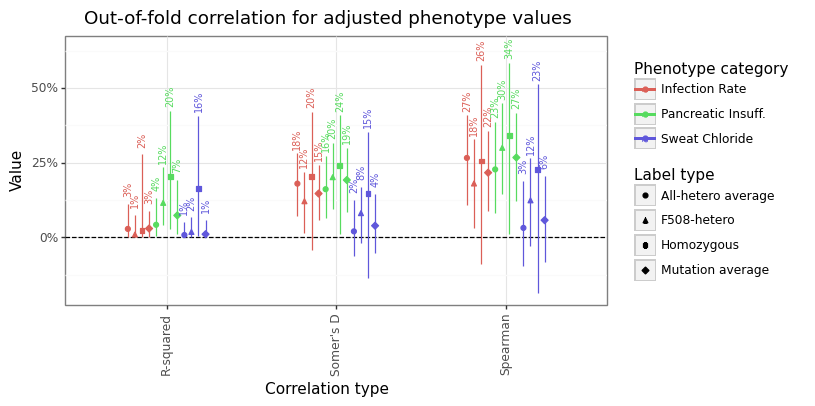
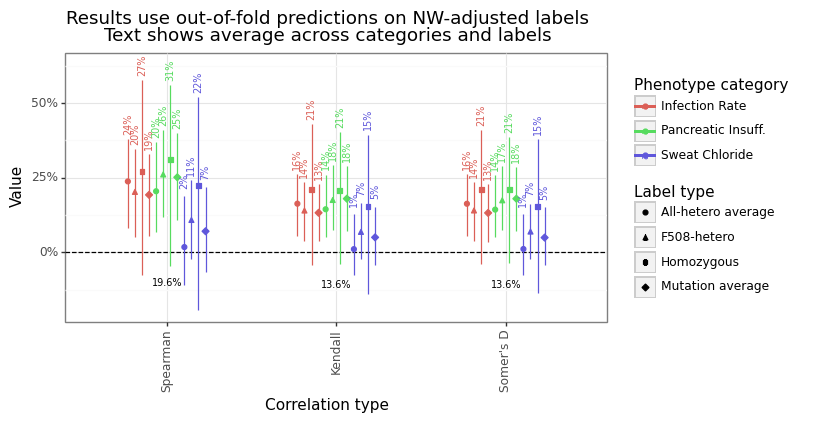
updating blog post

diff --git a/_posts/2023-03-20-cftr2_esmfold.md b/_posts/2023-03-20-cftr2_esmfold.md
@@ -14,10 +14,11 @@ Embeddings from the [ESMFold](https://github.com/facebookresearch/esm) model can
 A summary of this post and the paper is as follows: 
 
 1. There is substantial variation in (average) clinical outcomes: [between mutations](#fig0), [within mutations](#fig9), [between categories](#fig5), and [within categories](#fig6). Therefore, any ML model needs to be able to predict multiple labels to capture the different aspects of a CF mutation's pathogenicity.
-2. Using an off-the-shelf ML model trained on protein folding embeddings from ESMFold obtains non-trivial and statistically significant correlations between the predicted and actual clinical values for a range of categories and labels (see [Figure 14](#fig14)). 
-3. ML models improve predictive correlation by up to 13 percentage points (pp) for Pseudomonas infection rate, 36pp for pancreatic insufficiency, and 27pp for sweat chloride levels compared to a simple model which uses only the amino acid length. The overall level of correlation ranges from 16-65%. No predictive performance was found for lung function. 
-4. Access to more of the underlying clinical information, additional computational power, and additional processing could double the effective sample size.
-5. Using ML models trained exclusively on CFTR structural forms and clinical outcome categories (sweat chloride, pancreatic function, infection rates) could establish CF-specific pathogenicity scores that go beyond the usual dichotomous predictions of existing tool. There are >1000 CFTR-gene mutations found in the CFTR1 database which do not have an established significance in the CFTR2 database.
+2. Using an off-the-shelf ML model trained on protein folding embeddings from ESMFold obtains statistically significant and non-trivial improvement in rank correlations between the predicted and actual clinical values for a range of categories and labels (see [Figure 12A](#fig12a) and [Figure 12B](#fig12b)). 
+3. ML models improve rank correlation by up to 22 percentage points (pp) for Pseudomonas infection rate, 35pp for pancreatic insufficiency, and 27pp for sweat chloride levels compared to a simple model which uses only the amino acid length (see [Figure 14](#fig14)). The overall level of correlation ranges from 16-51%. 
+4. No predictive performance was found for multiple measure of lung function. 
+5. Access to more of the underlying clinical information, additional computational power, and additional processing could double the effective sample size.
+6. Using ML models trained exclusively on CFTR structural forms and clinical outcome categories (sweat chloride, pancreatic function, infection rates) could establish CF-specific pathogenicity scores that go beyond the usual dichotomous predictions of existing tool. There are >1000 CFTR-gene mutations found in the CFTR1 database which do not have an established significance in the CFTR2 database.
 
 The repo used to generate all analyses and figures can be found here: [cftr2_esmfold](https://github.com/ErikinBC/cftr2_esmfold). 
 
@@ -65,17 +66,17 @@ An alternative to AlphaFold is Meta's [ESMFold](https://www.biorxiv.org/content/
 
 ## Existing literature
 
-There are a substantial number of bioinformatics tools for predicting the pathogenicity of mutations (see for example [SIFT 4G](https://www.nature.com/articles/nprot.2015.123), [Polyphen-2](https://www.nature.com/articles/nmeth0410-248), [PROVEAN](https://www.ncbi.nlm.nih.gov/pmc/articles/PMC4528627/) and [FATHMM](https://pubmed.ncbi.nlm.nih.gov/23033316/)). These tools usually fall into one of three categories: i) sequence based tools, ii) structure based tools, or iii) [dynamics based tools](https://www.pnas.org/doi/10.1073/pnas.1715896115). There is an equally large literature on how to stack these tools to improve performance (see [Lai et al. (2021)](https://academic.oup.com/bioinformaticsadvances/article/2/1/vbab045/6483096#381334522); [Ioannidis et al. (2016)](https://www.ncbi.nlm.nih.gov/pmc/articles/PMC5065685/) for examples). 
+There are a substantial number of bioinformatics tools for predicting the pathogenicity of mutations (see [SIFT 4G](https://www.nature.com/articles/nprot.2015.123), [Polyphen-2](https://www.nature.com/articles/nmeth0410-248), [PROVEAN](https://www.ncbi.nlm.nih.gov/pmc/articles/PMC4528627/) and [FATHMM](https://pubmed.ncbi.nlm.nih.gov/23033316/)). These tools usually fall into one of three categories: i) sequence based tools, ii) structure based tools, or iii) [dynamics based tools](https://www.pnas.org/doi/10.1073/pnas.1715896115). There is an equally large literature on how to stack these tools to improve performance (see [Lai et al. (2021)](https://academic.oup.com/bioinformaticsadvances/article/2/1/vbab045/6483096#381334522); [Ioannidis et al. (2016)](https://www.ncbi.nlm.nih.gov/pmc/articles/PMC5065685/) for examples). 
 
 As most pathogenic mutations appear to affect protein stability (see [Wang and Moult (2001)](https://pubmed.ncbi.nlm.nih.gov/11295823/)), protein folding models may be able to produce useful signals for predicting disease severity. Even in the pre-AlphaFold era, classifiers that took into account 3D structures showed some success (see [Adzhubei et al., 2010](https://www.ncbi.nlm.nih.gov/pmc/articles/PMC2855889/); [Capriotti and Altman, 2011](https://bmcbioinformatics.biomedcentral.com/articles/10.1186/1471-2105-12-S4-S3)). [Schmidt et al. (2022)](https://www.biorxiv.org/content/10.1101/2022.03.05.483091v1) has shown that an ML model trained on AlphaFold features (referred to as AlphaScore in the paper) improved the accuracy of pathogenicity predictions when combined with other tools. However this finding has not been universal (see [Pak et al. (2023)](https://journals.plos.org/plosone/article?id=10.1371/journal.pone.0282689) and [Buel & Walters (2022)](https://www.nature.com/articles/s41594-021-00714-2)).
 
-The use of existing tools for predicting the pathogenicity of missense mutations on the CFTR gene has been mixed, with [Niroula & Vihinen (2017)](https://onlinelibrary.wiley.com/doi/10.1002/humu.23173) showing relatively high sensitivity and specificity, whilst [Michels et al. (2019)](https://www.ncbi.nlm.nih.gov/pmc/articles/PMC6905453/) found the less accurate results when using a larger sample of CFTR mutations. Earlier work by [Masica et al. (2012)](https://www.ncbi.nlm.nih.gov/pmc/articles/PMC4364283/) showed that CFTR-specific phenotype-optimized sequence ensembles (POSEs) could outperform off-the-shelf sequence based tools. 
+The use of existing tools for predicting the pathogenicity of missense mutations on the CFTR gene has been mixed, with [Niroula & Vihinen (2017)](https://onlinelibrary.wiley.com/doi/10.1002/humu.23173) showing relatively high sensitivity and specificity, whilst [Michels et al. (2019)](https://www.ncbi.nlm.nih.gov/pmc/articles/PMC6905453/) found less accurate results when using a larger sample of CFTR mutations. Earlier work by [Masica et al. (2012)](https://www.ncbi.nlm.nih.gov/pmc/articles/PMC4364283/) showed that CFTR-specific phenotype-optimized sequence ensembles (POSEs) could outperform off-the-shelf sequence based tools. 
 
-[Rychkova et al. (2017)](https://www.biorxiv.org/content/10.1101/115956v1.abstract) used a CFTR-specific approach by combining 35 different features ranging from existing bioinformatics tools to CFTR-specific protein information. The paper also showed that the predicted pathogenicity probability was correlated to both chloride conductance and sweat chloride levels using data from from [Sosnay et al. (2013)](https://www.ncbi.nlm.nih.gov/pmc/articles/PMC3874936/pdf/nihms-512446.pdf) and the Stanford CF Center (Figure 4 in the paper). Only patients heterozygous for F508del mutation were included. As far as this author knows, this is the only paper in the CF literature that explicitly correlates mutational pathogenicity generated from a model to CF-specific clinical outcomes.
+[Rychkova et al. (2017)](https://www.biorxiv.org/content/10.1101/115956v1.abstract) used a CFTR-specific approach by combining 35 different features ranging from existing bioinformatics tools to CFTR-specific protein information. The paper also showed that the predicted pathogenicity probability was correlated to both chloride conductance and sweat chloride levels using data from from [Sosnay et al. (2013)](https://www.ncbi.nlm.nih.gov/pmc/articles/PMC3874936/pdf/nihms-512446.pdf) and the Stanford CF Center (see Figure 4 in their paper). Only patients heterozygous for F508del mutation were included. As far as this author knows, this is the only paper in the CF literature that explicitly correlates mutational pathogenicity generated from a model to CF-specific clinical outcomes.
 
-[Bahia et al. (2021)](https://pubs.acs.org/doi/full/10.1021/acs.jcim.0c01207) used two deep learning models (FoldX and [Rosetta]([RoseTTA](https://www.science.org/doi/10.1126/science.abj8754))) to predict domain stability on NBD1 and NBD2 of the CFTR gene and partial alignment to experimental results. However the paper looked at a small number of mutations (59) and did not link this to any clinical outcomes. Like Rychkova et al. (2017), this analysis correlates a predicted measure to a level of clinical severity, but uses a deep learning based structural model like Bahia et al. (2021) to obtain mutational features. 
+[Bahia et al. (2021)](https://pubs.acs.org/doi/full/10.1021/acs.jcim.0c01207) used two deep learning models (FoldX and [Rosetta]([RoseTTA](https://www.science.org/doi/10.1126/science.abj8754))) to predict domain stability on NBD1 and NBD2 of the CFTR gene and partial alignment to experimental results. However the paper looked at a small number of mutations (59) and did not link this to any clinical outcomes. Like Rychkova et al. (2017), this analysis correlates a predicted measure to a level of clinical severity, but uses a deep learning based structural model like Bahia et al. (2021) to obtain mutation-based features. 
 
-The results of the analysis stand out from the existing literature in three ways. First, I consider multiple clinical outcomes types (e.g. not only sweat chloride) and label constructions (e.g. not only F508del heterozygotes). Second, the model is fine-tuned to make predictions directly on CF-specific clinical outcomes rather than binary/ordinal pathogenicity categorizations. Third, by using the embeddings from the ESMFold model, I am able to make predictions for multiple mutation types including insertions, deletions, and duplications, rather than just missense mutations as is done in most of the literature.
+The results of the analysis stand out from the existing literature in three ways. First, it considers multiple clinical outcomes types (e.g. not only sweat chloride) and label constructions (e.g. not only F508del heterozygotes). Second, the model is fine-tuned to make predictions directly on CF-specific clinical outcomes rather than binary/ordinal pathogenicity categorizations. Third, by using the embeddings from the ESMFold model, the ML model is able to make predictions for multiple mutation types including insertions, deletions, and duplications, rather than just missense mutations as is done in most of the literature.
 
 <br>
 
@@ -282,7 +283,7 @@ Given the small sample size, a dedicated testing set was not possible, so instea
 
 ## Performance
 
-The overall correlation between the predicted and actual length-adjusted outcomes ranged from 2-40%. [Figure 12A](#fig12a) shows the level of performance for three different measures: [Pearson's r](https://en.wikipedia.org/wiki/Pearson_correlation_coefficient), [Spearman's rho](https://en.wikipedia.org/wiki/Spearman%27s_rank_correlation_coefficient), and [Somers' D](https://en.wikipedia.org/wiki/Somers%27_D). Pearson's method captures the degree of linear correlation, while Spearman and Somer are non-parametric methods. The average correlation across categories and labels tends to be more conservative for Somer's D (14%) and similar for Pearson's r (22%) and Spearman's rho (21%). 
+The overall rank correlation between the predicted and actual length-adjusted outcomes ranged from 1-31%. [Figure 12A](#fig12a) and [Figure 12B](#fig12b) show the level of performance for three different measures: [Spearman's rho](https://en.wikipedia.org/wiki/Spearman%27s_rank_correlation_coefficient), [Kendall's tau](https://en.wikipedia.org/wiki/Kendall_rank_correlation_coefficient), and [Somers' D](https://en.wikipedia.org/wiki/Somers%27_D). Spearman's correlation is the degree of linear correlation between the ranks of the outcome and the predicted levels. In contrast, Kendall's tau and Somer's D capture the degree of pairwise concordance, the only difference being how they handle ties. The average rank correlation across categories and labels was highest for Spearman's rho (20%), and conservative for Somer's d (14%) and Kendall's tau (14%). 
 
 The predicted to actual phenotype value can be seen in [Figure 13](#fig13) for all label types. Some labels tend to have more missing data (homozygous), while sweat chloride category has the most samples overall. The figure highlights the relative position of the predicted phenotypes for F508del and R347H. As noted before, the former is a more severe mutation compared to the latter, and the predicted values reflect this difference.
 
@@ -317,7 +318,7 @@ Recall that this predicted performance is on the residuals of the Nadarya-Watson
 <a name="summary"></a>
 # (7) Summary
 
-This analysis has shown how predictive model can be built to predict the severity of CF outcomes using the embeddings from ESMFold. The model is able to demonstrate non-trivial and statistically significant performance for three phenotype categories (sweat chloride levels, infection rates, and pancreatic insufficiency) for multiple approaches. There does not appear to be any signal for predicting lung function. Overall, linking clinical outcomes of the CFTR2 database to representations of core biological structures suggests a new tool for classifying the pathogenicity of CFTR mutations.
+This analysis has shown how predictive model can be built to predict the severity of CF outcomes using the embeddings from ESMFold. The model is able to demonstrate non-trivial and statistically significant performance for a variety of rank order measures for three phenotype categories (sweat chloride levels, infection rates, and pancreatic insufficiency) for multiple approaches. There does not appear to be any signal for predicting lung function. Overall, linking clinical outcomes of the CFTR2 database to representations of core biological structures suggests a new tool for classifying the pathogenicity of CFTR mutations.
 
 This research was carried out on an independent basis as a side project, and many possibilities exist for future research. Five key areas for improvement are mentioned below.
 
